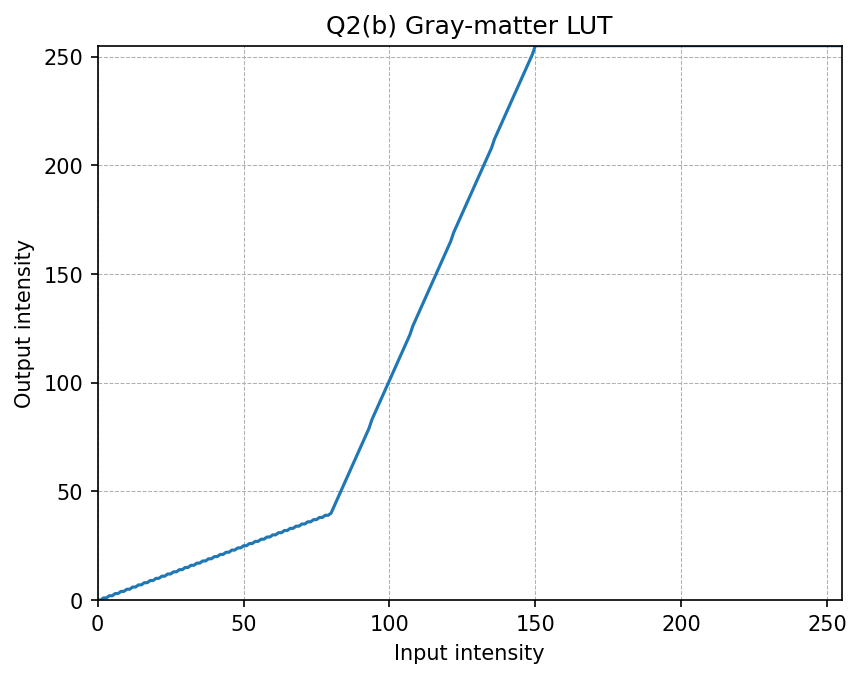
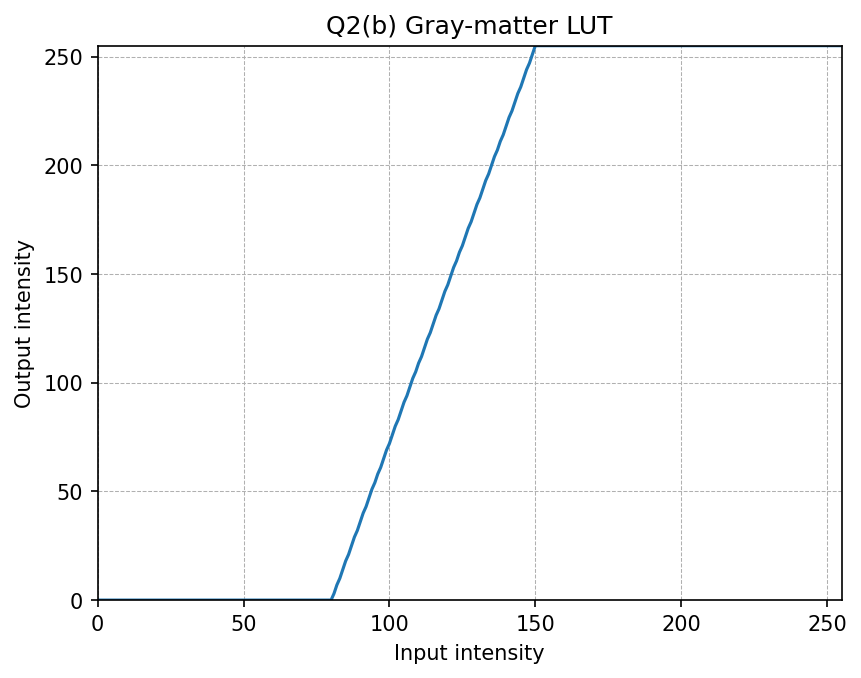
optimized for improved  results

diff --git a/q5.py b/q5.py
@@ -1,32 +1,49 @@
-
-import cv2, numpy as np, os
+import cv2
+import numpy as np
+import os
 from utils import load_color, save_img
 
 IN_PATH = "docs/q5_images/input/jeniffer.jpg"
+
 def main():
+    # (a) Load and split into HSV
     bgr = load_color(IN_PATH)
     hsv = cv2.cvtColor(bgr, cv2.COLOR_BGR2HSV)
     h, s, v = cv2.split(hsv)
-    
-    os.makedirs("docs/q5_images/output", exist_ok=True)
-    cv2.imwrite("docs/q5_images/output/q5_h.jpg", h)
-    cv2.imwrite("docs/q5_images/output/q5_s.jpg", s)
-    cv2.imwrite("docs/q5_images/output/q5_v.jpg", v)
 
-    _, mask = cv2.threshold(v, 0, 255, cv2.THRESH_BINARY+cv2.THRESH_OTSU)
-    cv2.imwrite("docs/q5_images/output/q5_mask.jpg", mask)
-    fg = cv2.bitwise_and(v, v, mask=mask)
-    hist = cv2.calcHist([fg],[0],mask,[256],[0,256]).ravel()
-    cdf = np.cumsum(hist)
-    cdf_norm = (cdf - cdf.min())/(cdf.max()-cdf.min()+1e-8) * 255.0
-    cdf_norm = cdf_norm.clip(0,255).astype(np.uint8)
-    v_eq = v.copy()
-    v_eq[mask>0] = cdf_norm[v[mask>0]]
-    v_final = v_eq
-    hsv2 = cv2.merge((h, s, v_final))
-    out = cv2.cvtColor(hsv2, cv2.COLOR_HSV2BGR)
+    os.makedirs("docs/q5_images/output", exist_ok=True)
+    save_img("docs/q5_images/output/q5_h.jpg", h)
+    save_img("docs/q5_images/output/q5_s.jpg", s)
+    save_img("docs/q5_images/output/q5_v.jpg", v)
+
+    # (b) Better threshold for portrait - use manual threshold instead of Otsu
+    _, mask = cv2.threshold(v, 40, 255, cv2.THRESH_BINARY)  # Lower threshold for dark background
+    
+    # Clean up mask with morphology
+    kernel = cv2.getStructuringElement(cv2.MORPH_ELLIPSE, (5, 5))
+    mask = cv2.morphologyEx(mask, cv2.MORPH_CLOSE, kernel)
+    save_img("docs/q5_images/output/q5_mask.jpg", mask)
+
+    # (c) Foreground histogram equalization
+    fg_pixels = v[mask > 0]
+    if len(fg_pixels) > 0:
+        # Direct histogram equalization on foreground pixels
+        v_eq = v.copy()
+        v_eq[mask > 0] = cv2.equalizeHist(fg_pixels.reshape(-1, 1)).flatten()
+    else:
+        v_eq = v.copy()
+
+    # (d) Blend foreground and background
+    v_final = np.where(mask > 0, v_eq, v)
+
+    # Recombine and convert back to BGR
+    hsv_final = cv2.merge((h, s, v_final))
+    out = cv2.cvtColor(hsv_final, cv2.COLOR_HSV2BGR)
+
     save_img("docs/q5_images/output/q5_original.jpg", bgr)
     save_img("docs/q5_images/output/q5_result.jpg", out)
+
     print("Q5 done.")
+
 if __name__ == "__main__":
     main()

diff --git a/q4.py b/q4.py
@@ -1,29 +1,38 @@
+import cv2, numpy as np
+from utils import load_color, save_img, plot_transfer, vibrance_s_curve
 
-import cv2, numpy as np, os
-from utils import (
-    load_color, 
-    save_img, 
-    plot_transfer, 
-    vibrance_s_curve 
-    )
 IN_PATH = "docs/q4_images/input/spider.png"
 A = 0.6
 SIGMA = 70.0
+
 def main():
     bgr = load_color(IN_PATH)
+
+    # Convert to HSV
     hsv = cv2.cvtColor(bgr, cv2.COLOR_BGR2HSV).astype(np.float32)
     h, s, v = cv2.split(hsv)
-    cv2.imwrite("docs/q4_images/output/q4_spider_h.png", h.astype(np.uint8))
-    cv2.imwrite("docs/q4_images/output/q4_spider_s.png", s.astype(np.uint8))
-    cv2.imwrite("docs/q4_images/output/q4_spider_v.png", v.astype(np.uint8))
+
+    # Save H, S, V planes
+    save_img("docs/q4_images/output/q4_spider_h.png", h.astype(np.uint8))
+    save_img("docs/q4_images/output/q4_spider_s.png", s.astype(np.uint8))
+    save_img("docs/q4_images/output/q4_spider_v.png", v.astype(np.uint8))
+
+    # Build vibrance transform
     x = np.arange(256, dtype=np.float32)
     y = vibrance_s_curve(x, a=A, sigma=SIGMA).astype(np.float32)
-    plot_transfer(x, y, f"Q4 Vibrance Transform (a={A:.2f}, sigma={SIGMA})", "docs/q4_images/output/q4_spider_transfer.png")
+    plot_transfer(x, y, f"Q4 Vibrance Transform (a={A:.2f}, sigma={SIGMA})",
+                  "docs/q4_images/output/q4_spider_transfer.png")
+
+    # Apply vibrance to saturation plane
     s2 = np.interp(s, x, y).astype(np.float32)
+
+    # Recombine HSV and convert back to BGR
     hsv2 = cv2.merge((h, s2, v))
     out = cv2.cvtColor(hsv2.astype(np.uint8), cv2.COLOR_HSV2BGR)
     save_img("docs/q4_images/output/q4_spider_original.png", bgr)
     save_img("docs/q4_images/output/q4_spider_vibrance.png", out)
+
     print(f"Q4 done with a={A}.")
+
 if __name__ == "__main__":
     main()

diff --git a/q2.py b/q2.py
@@ -10,18 +10,39 @@ from utils import (
 )
 IN_PATH = "docs/q2_images/input/brain_proton_density_slice.png"
 def accentuate_range(img, low, high):
-    cps = [(0,0),(low, low//2),(high, 255),(255,255)]
+    cps = [(0,0), (low,0), (high,255), (255,255)]
     lut = intensity_map_from_points(cps)
     return apply_lut(img, lut), lut
+
+import os
+import cv2
+import numpy as np
+from utils import (
+    load_gray, save_img, plot_transfer, apply_lut, intensity_map_from_points, hist_img
+)
+
+IN_PATH = "docs/q2_images/input/brain_proton_density_slice.png"
+
+def accentuate_range(img, low, high):
+    # Piecewise mapping: dim outside, stretch inside range
+    cps = [(0,0), (low,0), (high,255), (255,255)]
+    lut = intensity_map_from_points(cps)
+    return apply_lut(img, lut), lut
+
 def main():
     img = load_gray(IN_PATH)
+
+    hist_img(img, "Q2 Brain Histogram", "docs/q2_images/output/q2_histogram.png")
     wm_out, wm_lut = accentuate_range(img, low=120, high=200)
-    gm_out, gm_lut = accentuate_range(img, low=80,  high=150)
+    gm_out, gm_lut = accentuate_range(img, low=80, high=150)
     plot_transfer(np.arange(256), wm_lut, "Q2(a) White-matter LUT", "docs/q2_images/output/q2_wm_transfer.png")
     plot_transfer(np.arange(256), gm_lut, "Q2(b) Gray-matter LUT", "docs/q2_images/output/q2_gm_transfer.png")
     save_img("docs/q2_images/output/q2_original.png", img)
     save_img("docs/q2_images/output/q2_white_matter.png", wm_out)
     save_img("docs/q2_images/output/q2_gray_matter.png", gm_out)
+
     print("Q2 done.")
+
 if __name__ == "__main__":
     main()
+
